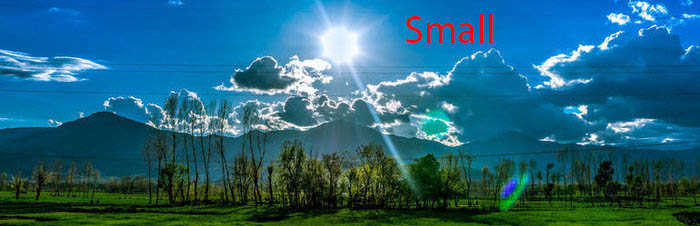
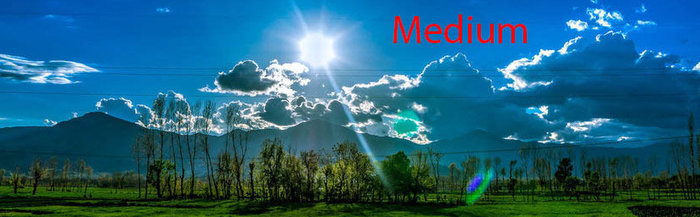
commit

diff --git a/lesson6/preston-6.html b/lesson6/preston-6.html
@@ -45,8 +45,7 @@
                 <picture>
                     <source media="(max-width: 480px)" srcset="images/preston500px.jpg">
                     <source media="(max-width: 42em)" srcset="images/preston700px.jpg">
-                    <source media="(max-width: 55em)" srcset="images/preston900px.jpg">
-                    <img src="images/preston1200px.jpg" alt="Sunny day over grassy field">
+                    <img src="images/preston900px.jpg" alt="Sunny day over grassy field">
                 </picture>
                 <section class="weatherSummary">
                 <h3>Weather Summary</h3>
